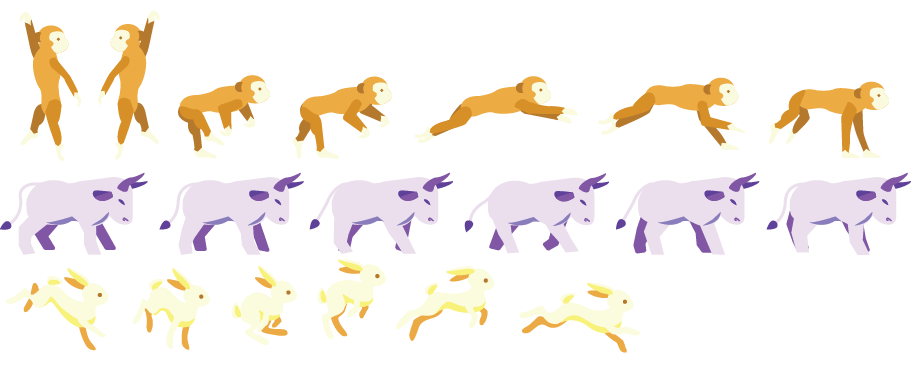
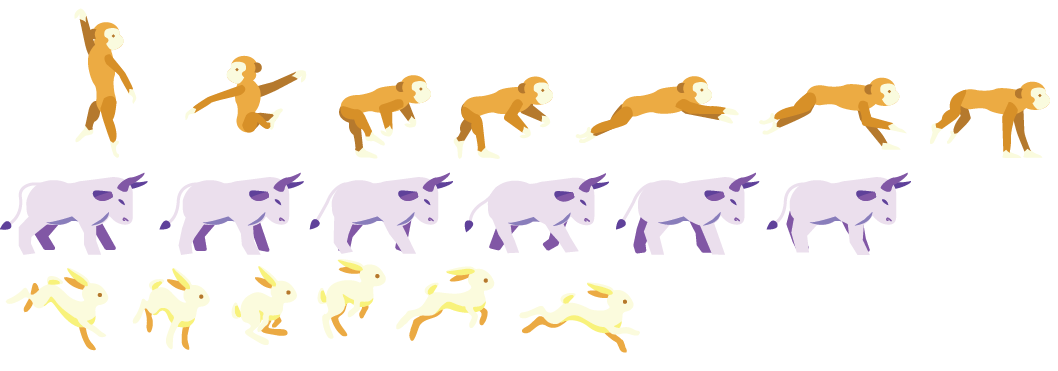
fixed monkey

Changed region(s): [[0.0, 0.4744, 1.0, 0.9488], [0.0, 0.0296, 1.0, 0.4447], [0.0, 0.0296, 0.0305, 0.0593]]

diff --git a/EternalGame/js/prefabs/Player.js b/EternalGame/js/prefabs/Player.js
@@ -13,7 +13,7 @@ var Player = function(game, x, y, jumps, SpiritType){ //Player prefab
 	this.animations.add("bunRun",['bun3', 'bun4', 'bun5', 'bun6', 'bun1', 'bun2'], 10, true);
 	this.animations.add("mon",['mon7'], 10, true);
 	this.animations.add("monRun",['mon3','mon4','mon5','mon6','mon7'], 10, true);
-	this.animations.add("monClimb",['mon1'], 10, true);
+	this.animations.add("monClimb",['mon2'], 10, true);
 	this.animations.add("ox",['ox2'], 10, true);
 	this.animations.add("oxRun",['ox2', 'ox3', 'ox4', 'ox5', 'ox6', 'ox1'], 10, true);
 	this.animations.play('bun');
@@ -75,7 +75,7 @@ Player.prototype.update = function() {
 			this.animations.play('bun');
 		}
 		if(this.SpiritType == 2){
-				this.animations.play('mon');
+			this.animations.play('mon');
 		}
 		if(this.SpiritType == 3){
 			this.animations.play('ox');
@@ -89,8 +89,8 @@ Player.prototype.update = function() {
 
 	//check for input and #of jumps or if player is on a platform
 	if(game.input.keyboard.justPressed(Phaser.Keyboard.UP) && ( (this.jumps > 0 && this.SpiritType == 1) || this.body.blocked.down || this.body.touching.down) ){
-		this.body.velocity.y = -900;	
-		this.jumps--;		
+		this.body.velocity.y = -900;
+		this.jumps--;
 		this.jump.play('',0, 0.3, false);
 	}
 
@@ -118,14 +118,14 @@ Player.prototype.update = function() {
 	//WallSlide
 	if(game.input.keyboard.isDown(Phaser.Keyboard.RIGHT) && !player.body.blocked.down && player.body.blocked.right && this.SpiritType == 2){
 		this.body.velocity.y = 0;
-		if (this.scale.x > 0){
+		if (this.scale.x < 0){
 			this.scale.x *= -1;
 		}
 		this.animations.play('monClimb');
 	}
 	if(game.input.keyboard.isDown(Phaser.Keyboard.LEFT) && !player.body.blocked.down && player.body.blocked.left && this.SpiritType == 2){
 		this.body.velocity.y = 0;
-		if (this.scale.x < 0){
+		if (this.scale.x > 0){
 			this.scale.x *= -1;
 		}
 		this.animations.play('monClimb');
@@ -139,7 +139,7 @@ Player.prototype.update = function() {
 	}
 	if(game.input.keyboard.isDown(Phaser.Keyboard.RIGHT) && !player.body.blocked.down && player.body.blocked.left && this.SpiritType == 2){
 		this.body.velocity.y = -650;
-		this.body.velocity.x = 600;        	
+		this.body.velocity.x = 600;
 		this.wallcount = 0;
 	}
 
@@ -150,6 +150,7 @@ Player.prototype.update = function() {
 		this.SpiritType = 1;
 	}
 	if(game.input.keyboard.justPressed(Phaser.Keyboard.W) && this.SpiritType != 2){
+		console.log('lost');
 		this.animations.play('mon');
 		this.body.setSize(72, 44);
 		this.SpiritType = 2;
